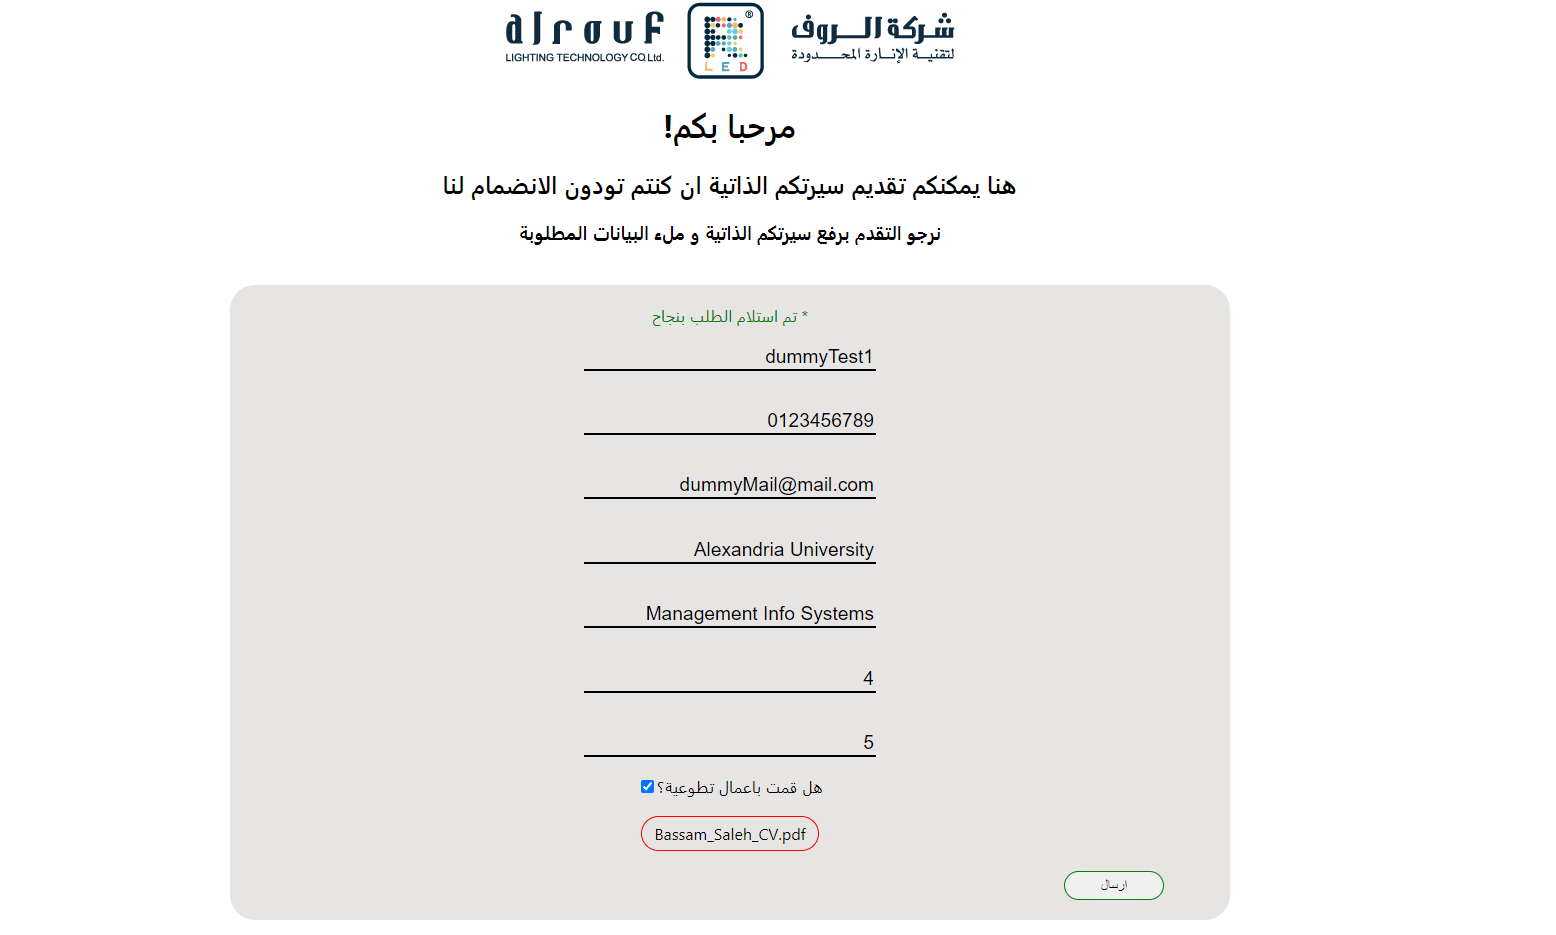
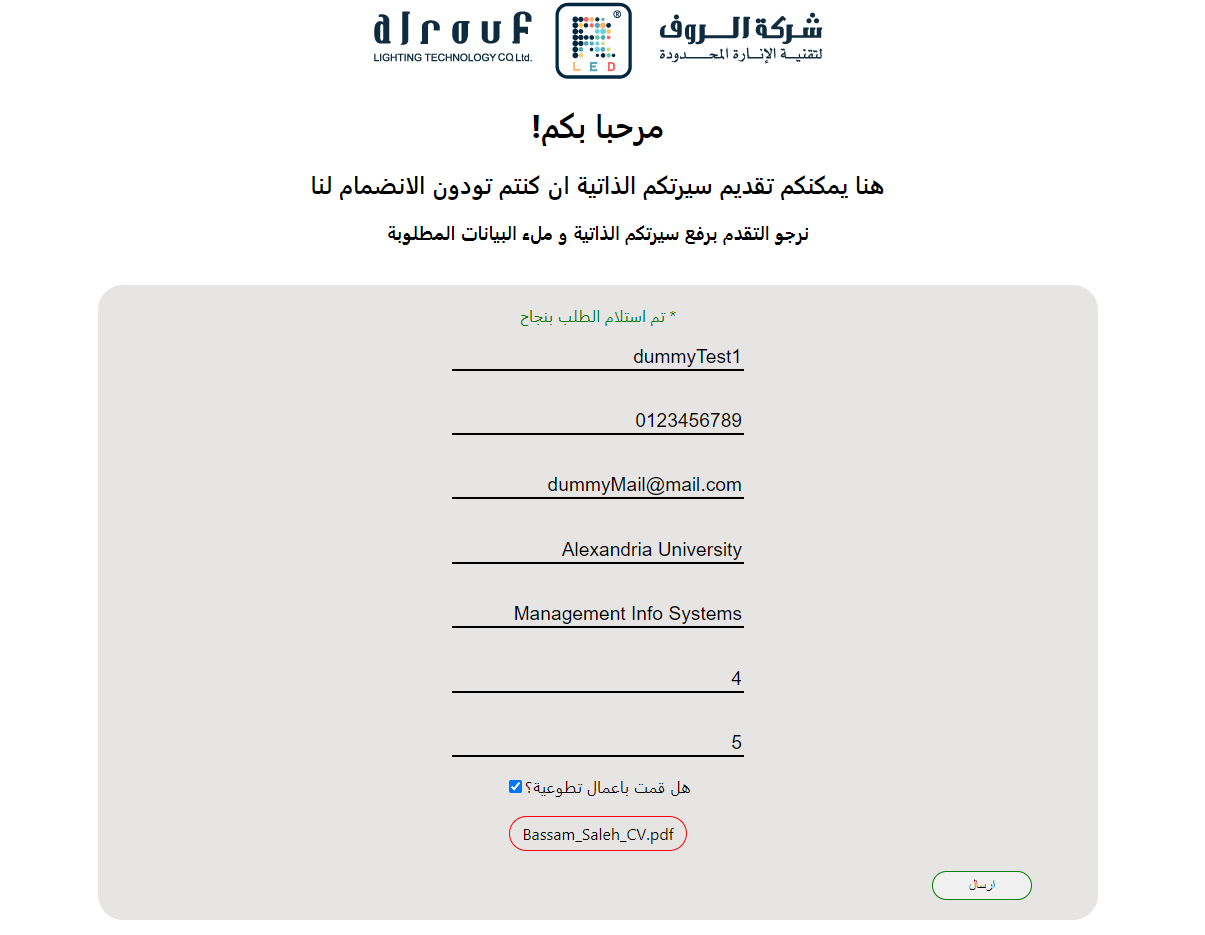
Done some modifications on the Readme and cropped website and website-filled images

diff --git a/README.md b/README.md
@@ -15,12 +15,21 @@ This system was meant for demonstration purposes only.
 
 1. We will need to install the required dependencies using NPM with the following command `npm install` ![npm install](/Ref_Images/npm.png)
 
- * We should see the following message when the installation of dependencies is complete ![dependencies installed successfully](/Ref_Images/npm-installed.png) No need to worry about the packages vulnerabilities as this is nothing serious and the project is merely meant for demonstration.
+ * We should see the following message when the installation of dependencies is complete 
+ ![dependencies installed successfully](/Ref_Images/npm-installed.png)
 
-2. Start the web app using `npm start` ![npm start](/Ref_Images/start.png) This may take a bit.
-    * We should see the following message appear in the terminal when the app launches ![started and compiled successfully](/Ref_Images/started.png)
-    * Followed by the default browser opening up `http://localhost:3000` displaying the following website page ![Main page](/Ref_Images/website.png)
+  No need to worry about the packages vulnerabilities as this is nothing serious and the project is merely meant for demonstration.
 
-3. We should now be able to fill the form and submit it to the back-end for storing in the database. ![Main page filled](/Ref_Images/website-filled.png)
+2. Start the web app using `npm start` ![npm start](/Ref_Images/start.png) 
+    This may take a bit.
+
+    * We should see the following message appear in the terminal when the app launches 
+    ![started and compiled successfully](/Ref_Images/started.png)
+
+    * Followed by the default browser opening up `http://localhost:3000` displaying the following website page 
+    ![Main page](/Ref_Images/website.png)
+
+3. We should now be able to fill the form and submit it to the back-end for storing in the database. 
+    * ![Main page filled](/Ref_Images/website-filled.png)
 
 This website will make a POST API call with the assumption that the back-end is up and running on the same machine on port 4000.
